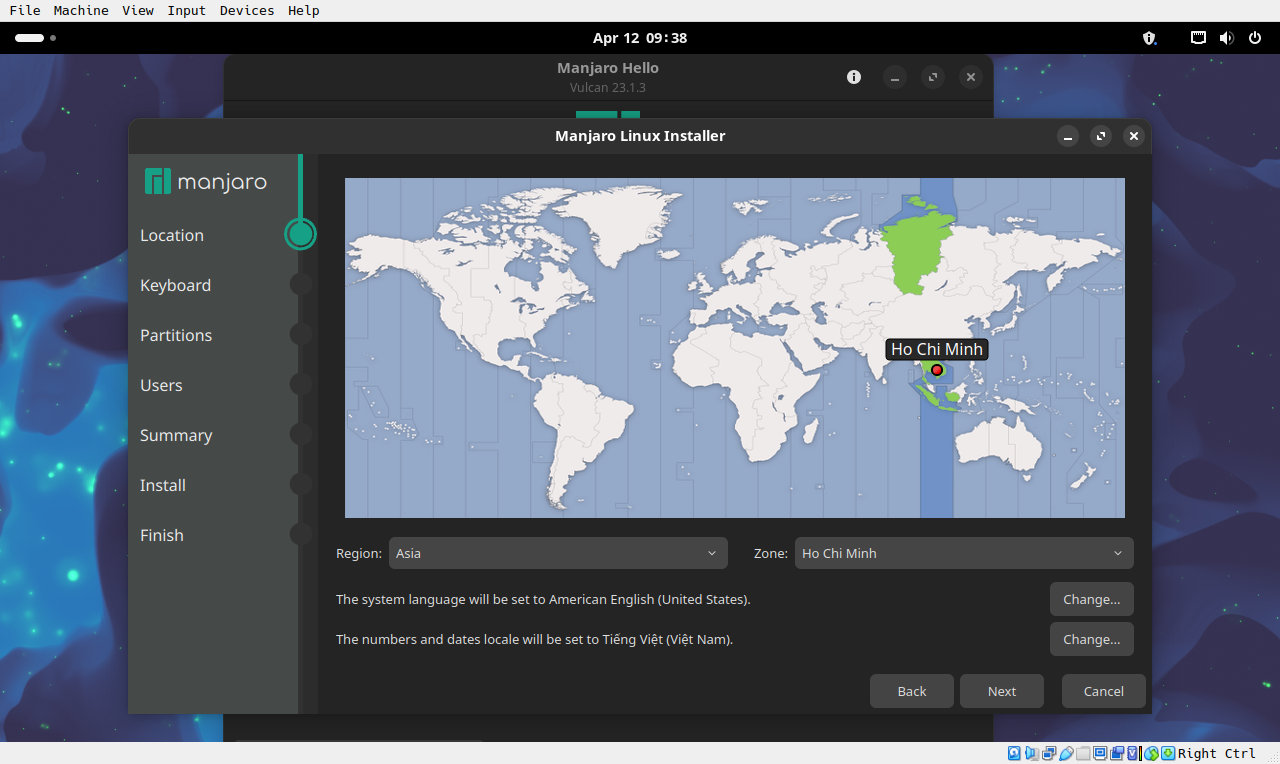
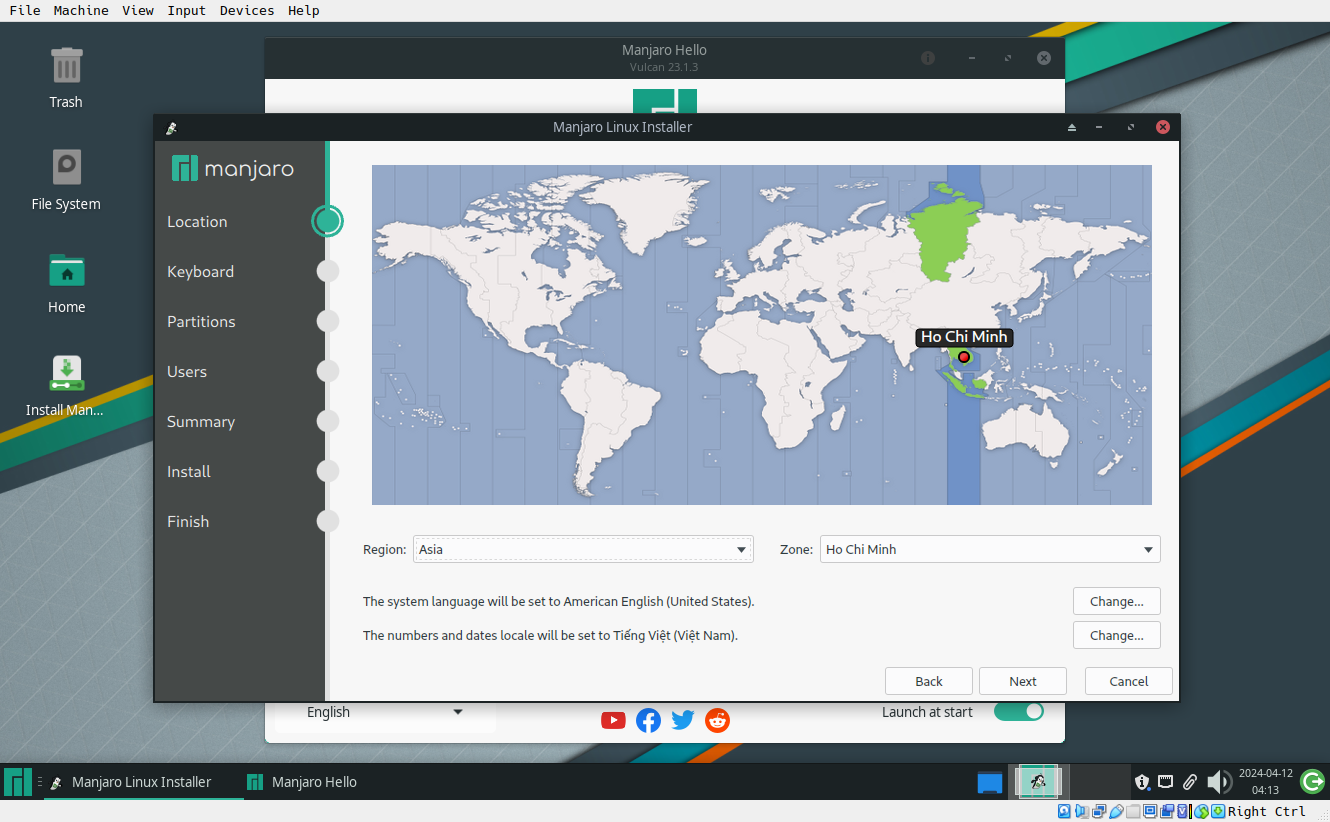
little change

diff --git a/README.md b/README.md
@@ -32,7 +32,7 @@ docker run --net=host --cap-add=NET_ADMIN -e DHCP_RANGE_START=192.168.0.1 samdbm
 - Kết nối chung mạng với máy chủ 
 - Khởi động máy và boot vào chế độ Pxe/Network Boot 
 ![PXE frist Start](image/pxe_frist_boot.png) 
-- Trong hướng dẫn này sẽ cài Manjaro Gnome, ở Menu netboot chọn Live CD - Manjaro - Manjaro Stable - Manjaro Gnome
+- Trong hướng dẫn này sẽ cài Manjaro Gnome, ở Menu netboot chọn Live CD - Manjaro - Manjaro Stable - Manjaro Xfce ( Nếu báo lỗi chỉ cần chọn lại tầm 2-3 lần là được)
 ![Manjaro LiveCD](./image/in_live_cd.png) 
 - đợi vài phút cho đến khi Majaro khởi động thành công 
 ![Manjaro AfterBoot](./image/Majaro_boot.png) 
@@ -43,17 +43,17 @@ docker run --net=host --cap-add=NET_ADMIN -e DHCP_RANGE_START=192.168.0.1 samdbm
 - Keyboard để mặc định - Next 
 - partitions 
   - chọn Manual partitioning 
-  ![partition_setting](./image/installer_3_1.png)
   - New Parrition Table - Chọn GPT 
-  ![Set GPT](./image/installer_3_2.png)
   - Tạo lần lượt 3 phân vùng
-    - phân vùng EFI ( khởi động hệ điều hành ),File Type: FAT32, Mount Point: /boot, Size: 500Mb 
+    - phân vùng EFI ( khởi động hệ điều hành ),File Type: unformated, Size: 500Mb, ở flag tick vào boot-grub
     - Phân vùng swap ( RAM trên ổ cứng ), File Type: LinuxSwap, Size: 512Mb~5% tổng dung lượng ổ cứng  ( tùy vào nhu cầu sử dụng và bộ nhớ cho phép )
     - Phân vùng hệ điều hành ( chứa dữ liệu hệ điều hành và toàn bộ dữ liệu người dùng ), File Type: ext4,Mount Point: / , size: toàn bộ dung lượng còn lại của ổ cứng
-    ![Create partition](./image/installer_3_3.png) 
+    ![Create partition](./image/installer_3_2.png) 
 - Ở user - đặt tên máy tính , tên người dùng và mật khẩu 
 ![User](./image/installer_4.png) 
-- ở summary - Install - Install Now đó chờ cài đặt  
+- ở summary - Install - Install Now sau đó chờ cài đặt  
 ![Start Install](./image/installer_5.png) 
+- sau khi cài đặt xong, khởi động lại
+![Install Done](./image/installer_done.png) 
 
 
